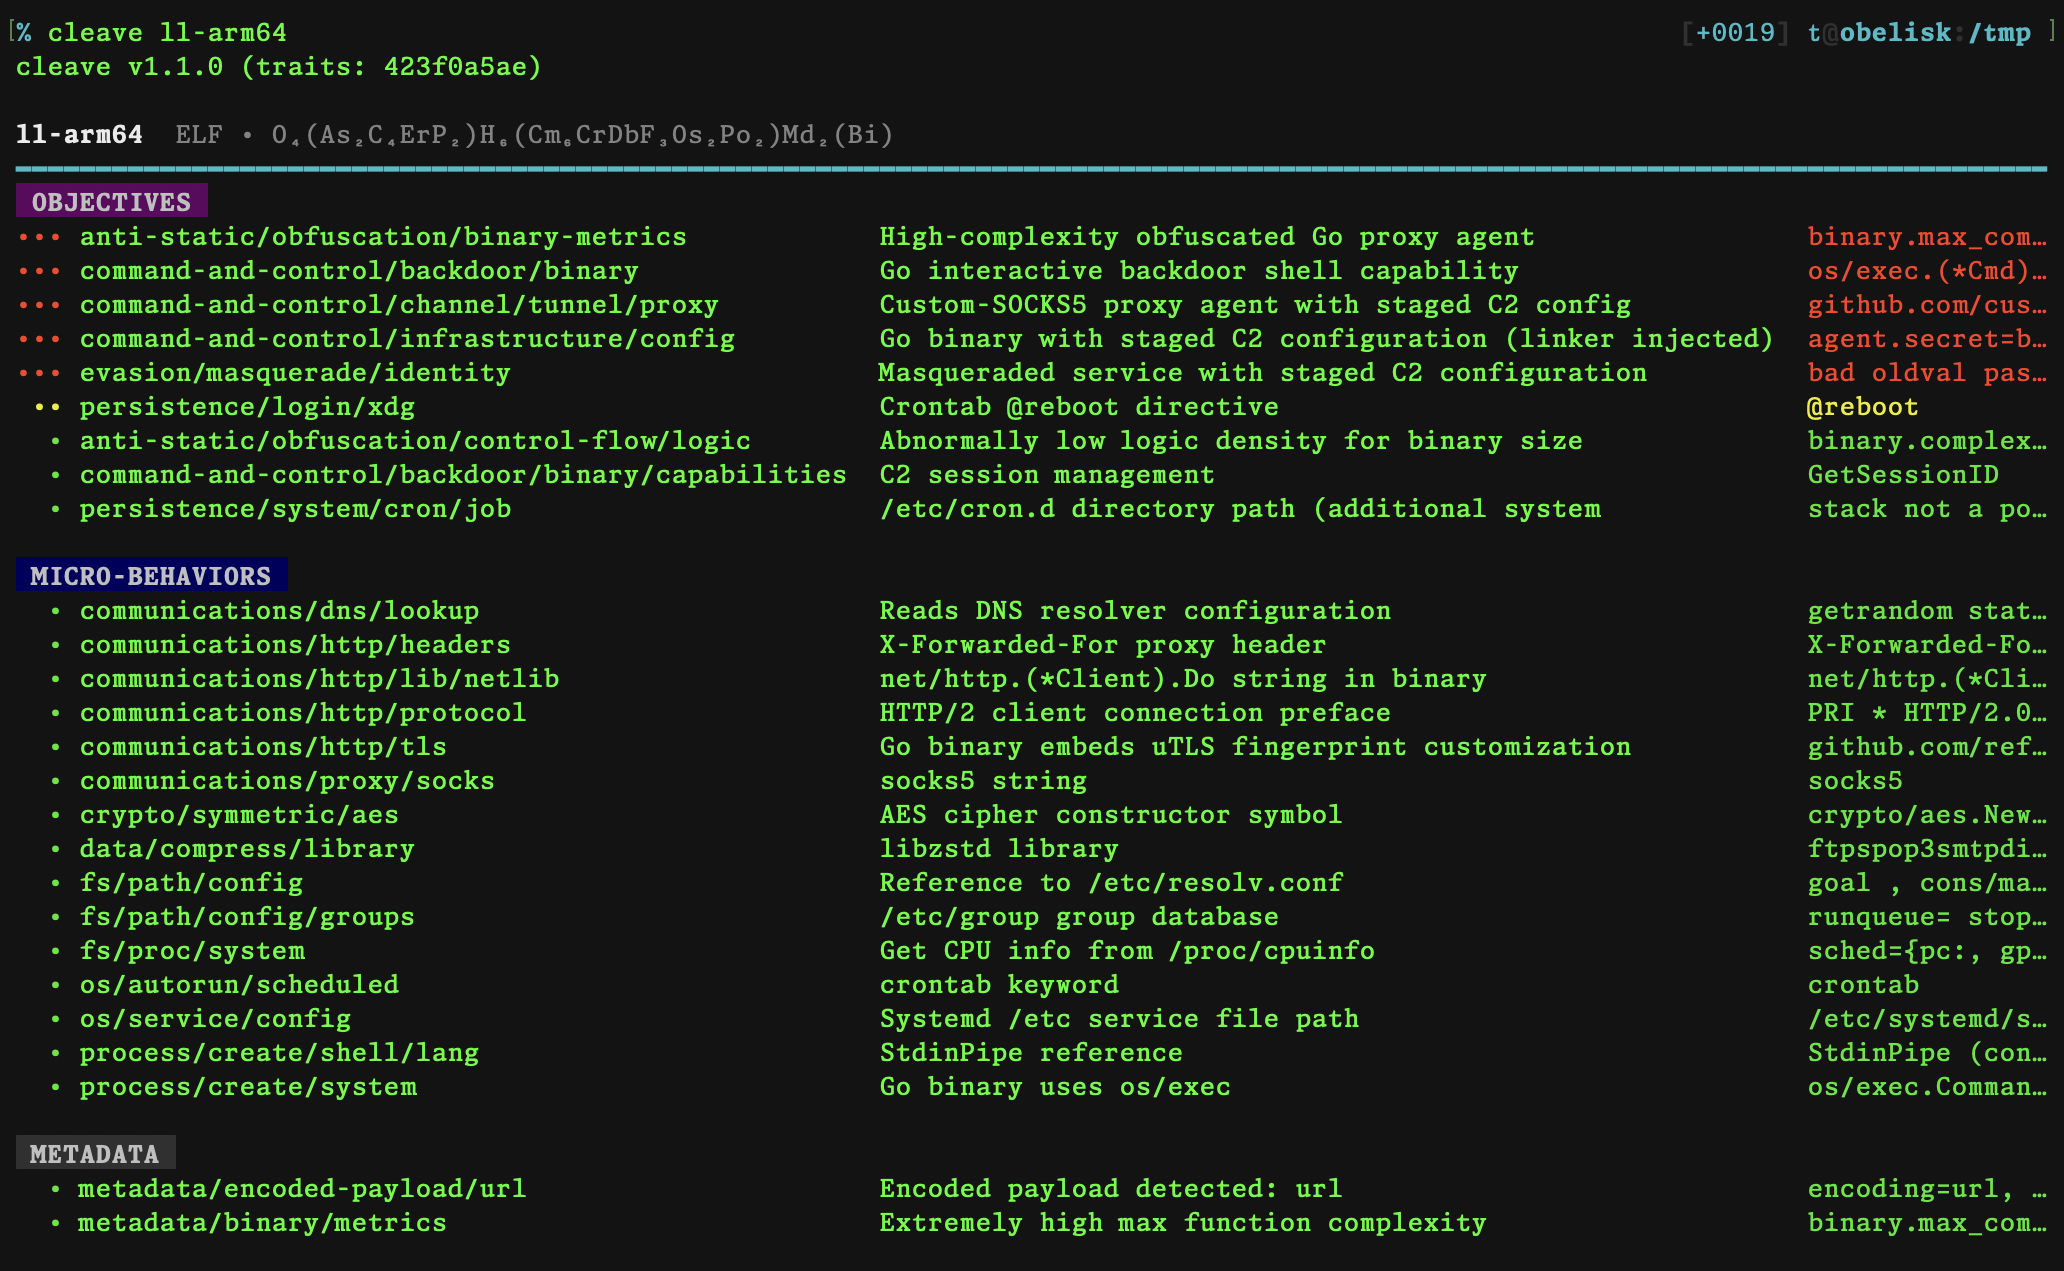
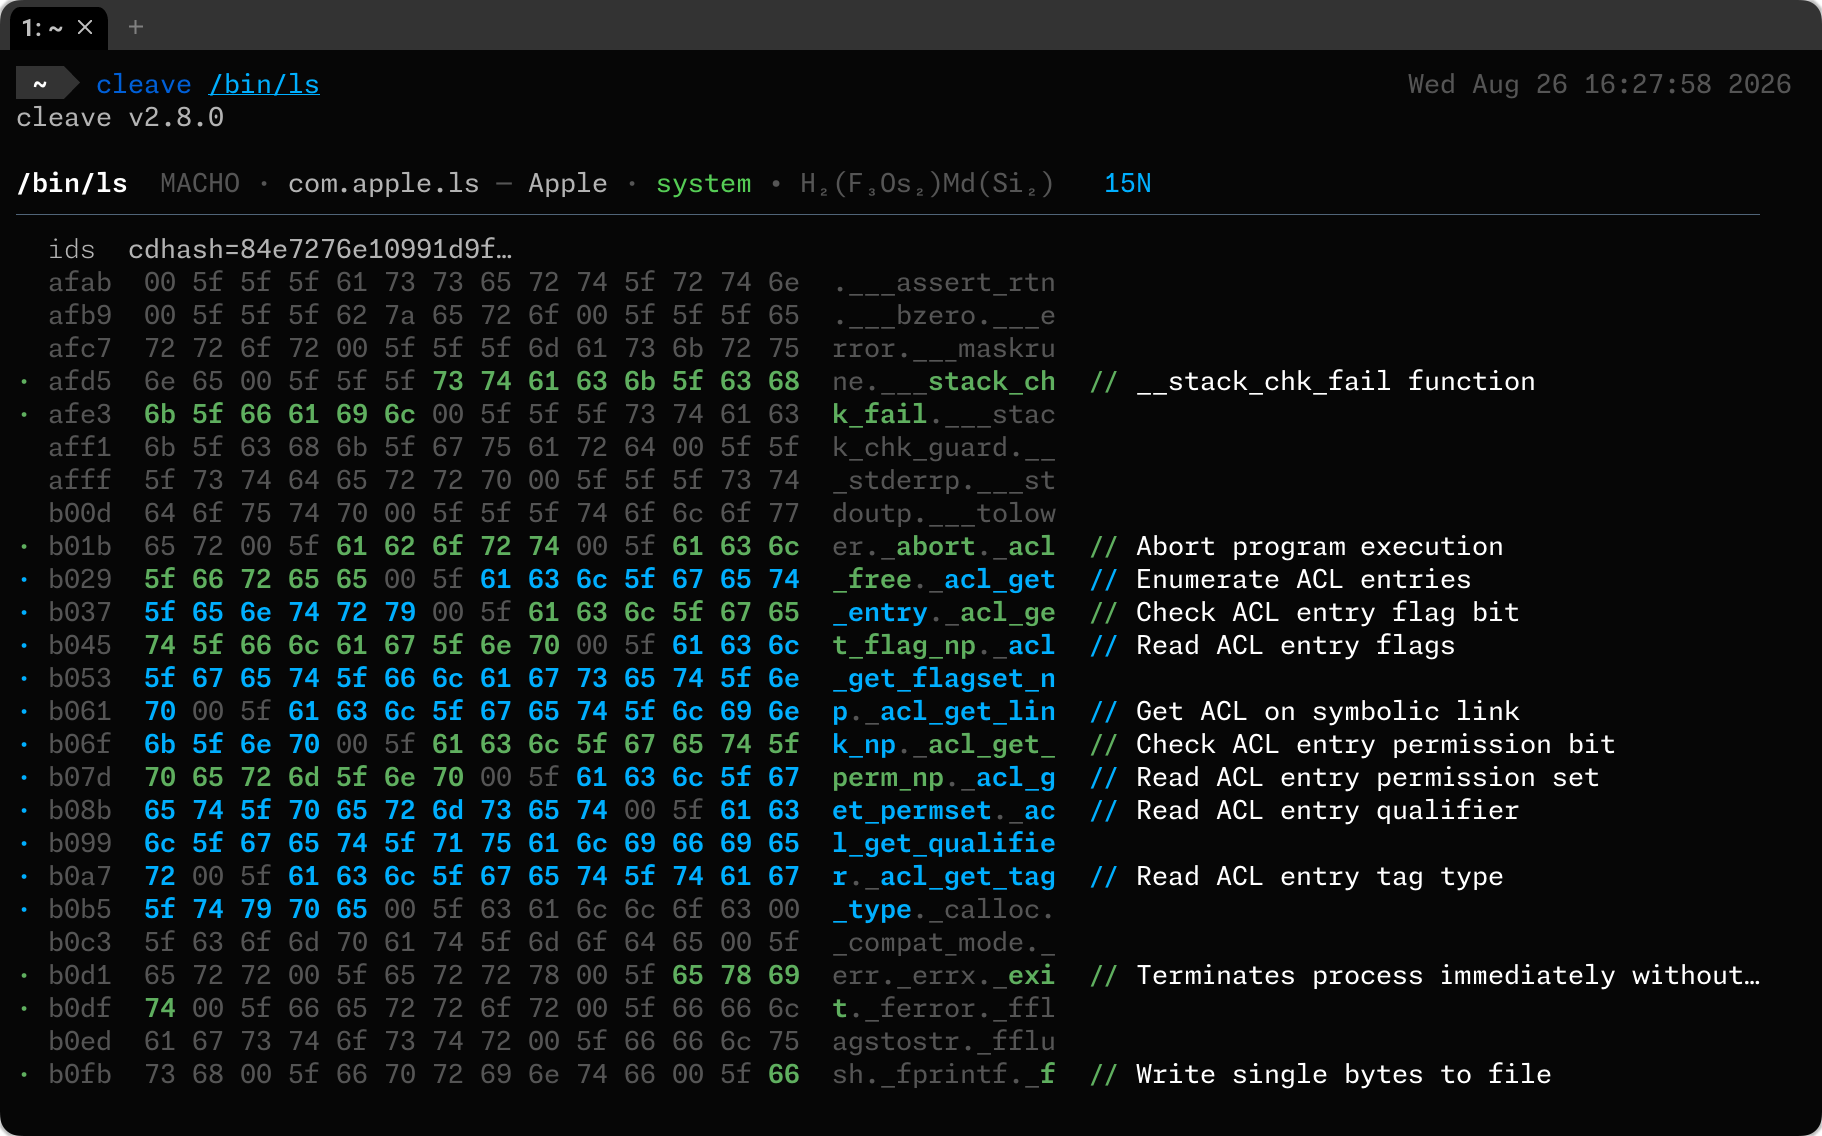
improve output text, screenshot

diff --git a/src/lib.rs b/src/lib.rs
@@ -1946,7 +1946,7 @@ pub(crate) fn process_encoded_payloads(
             "Percent-encoded content decoded".to_string()
         } else {
             format!(
-                "Encoded payload detected: {}",
+                "Encoded content decoded: {}",
                 payload.encoding_chain.join(" → ")
             )
         };
